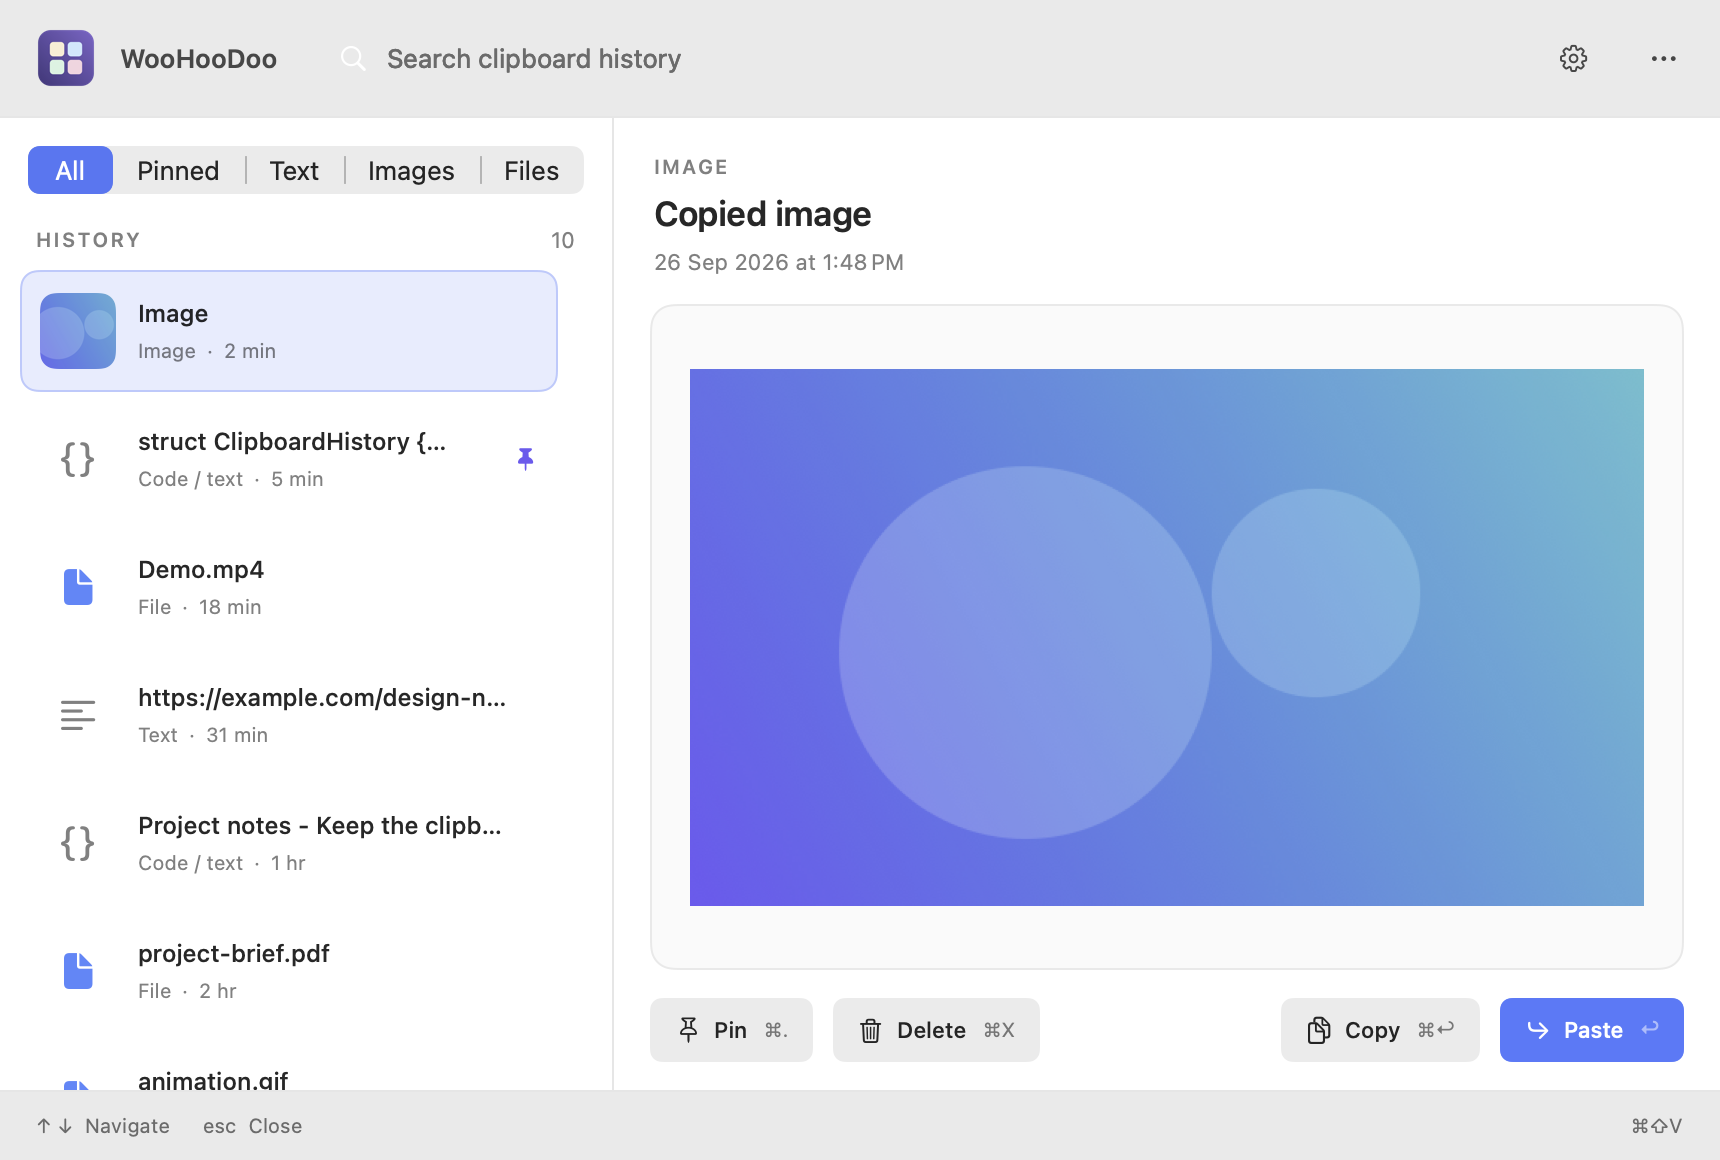
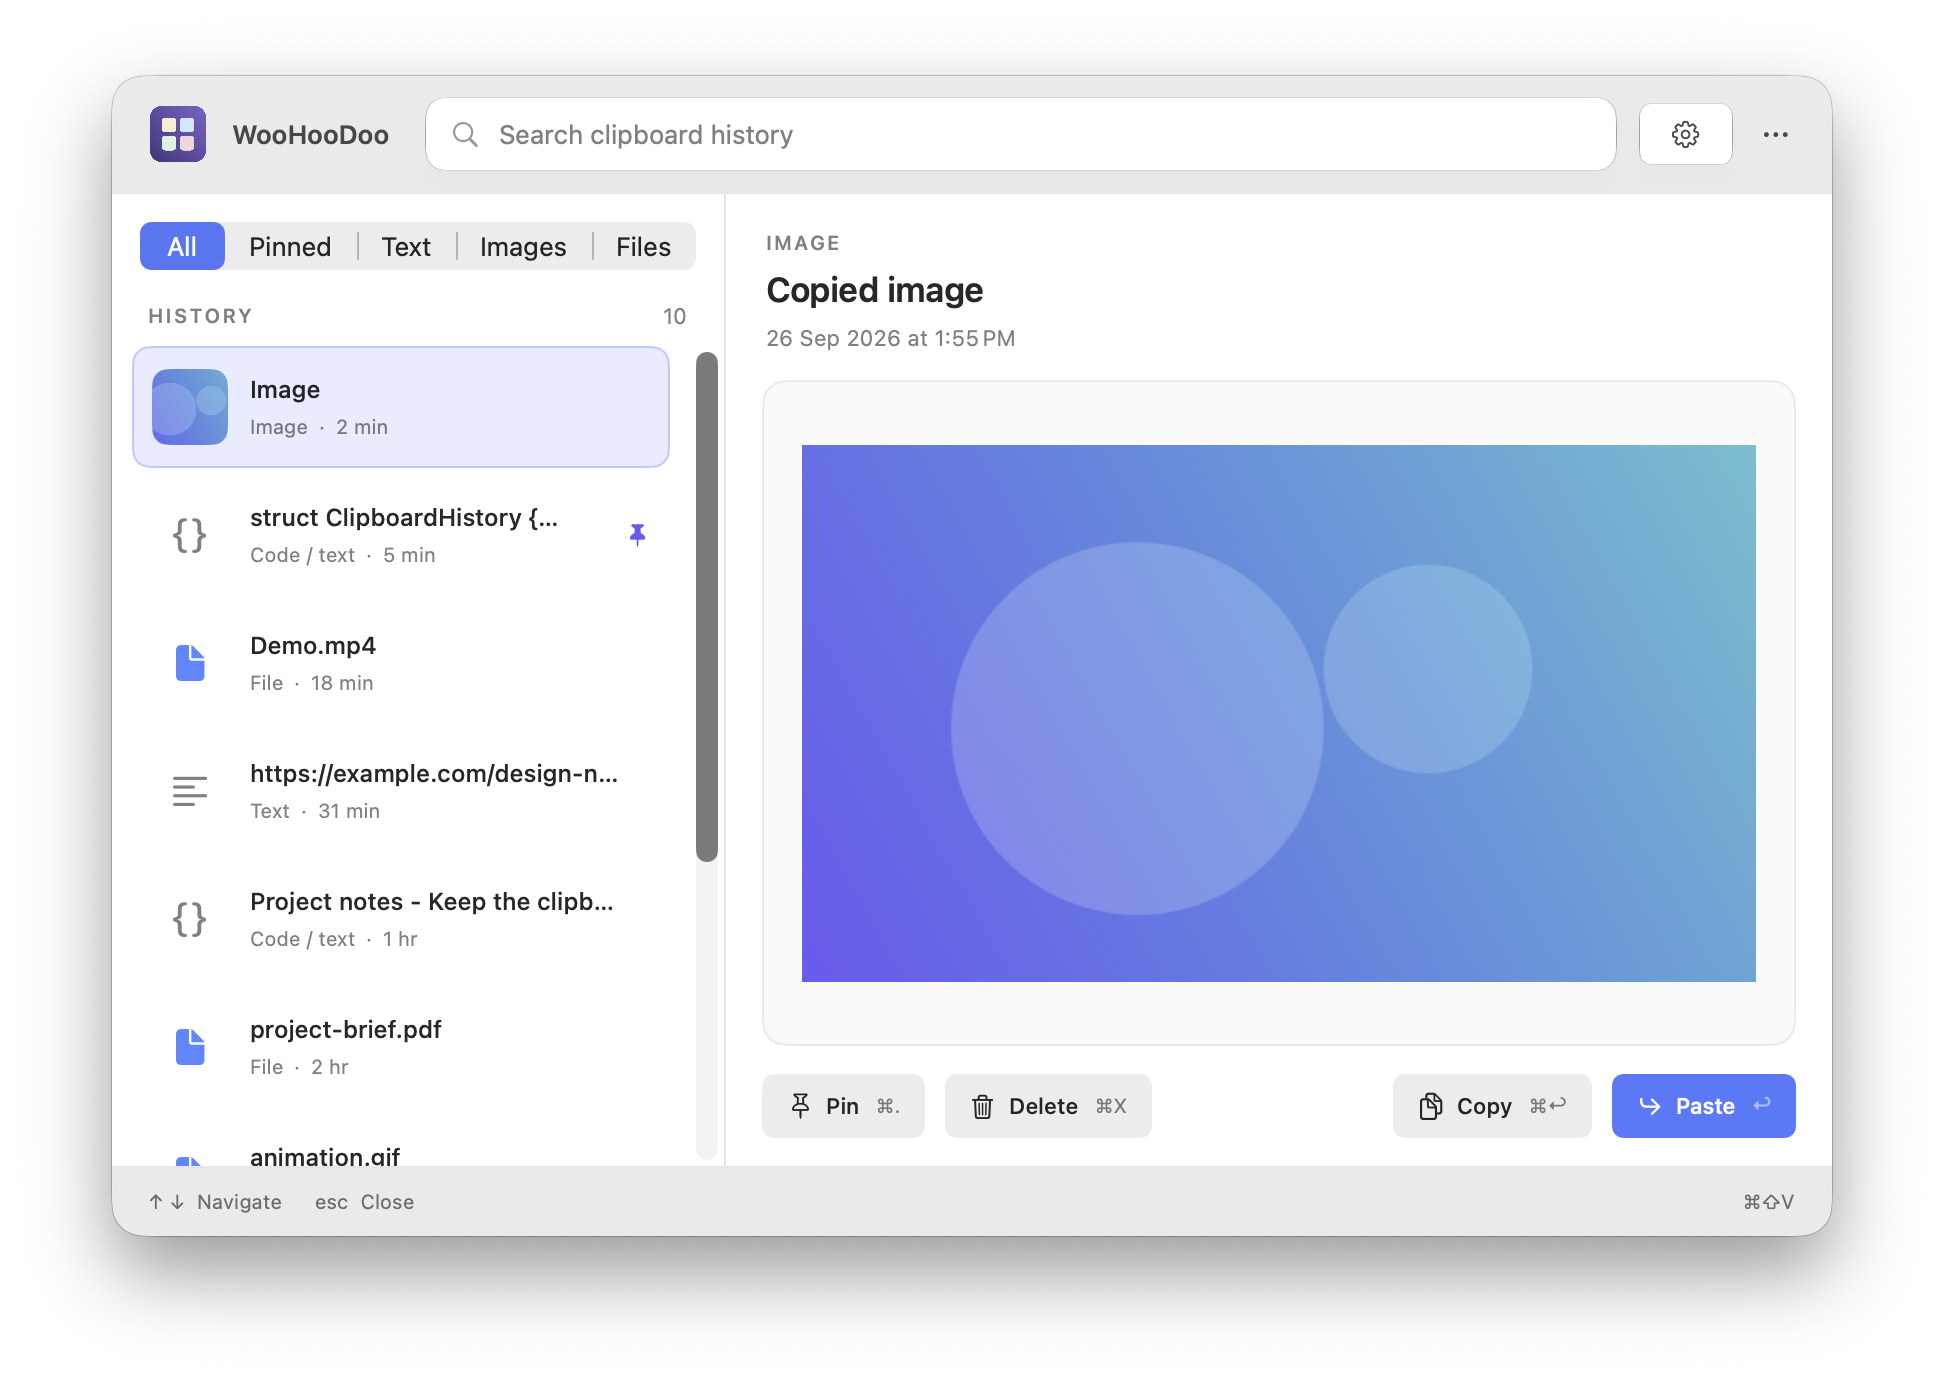
docs: capture screenshots from macOS windows

diff --git a/scripts/render-layout.swift b/scripts/render-layout.swift
@@ -1,4 +1,5 @@
 import AppKit
+import Darwin
 import SwiftUI
 
 @main
@@ -10,6 +11,8 @@ struct LayoutCheck {
         try FileManager.default.createDirectory(at: directory, withIntermediateDirectories: true)
         defer { try? FileManager.default.removeItem(at: directory) }
 
+        let scenario = CommandLine.arguments.dropFirst().first ?? "light"
+        precondition(["light", "dark", "settings"].contains(scenario))
         let previewFile = ProcessInfo.processInfo.environment["WOOHOODOO_LAYOUT_FILE"]
         let imageName = try makeSampleImage(in: directory)
         let code = """
@@ -59,18 +62,22 @@ struct LayoutCheck {
         let pasteboard = NSPasteboard(name: NSPasteboard.Name("WooHooDooLayout-\(UUID())"))
         let store = ClipboardStore(pasteboard: pasteboard, directory: directory, startsPolling: false)
         let controller = AppController(store: store)
-        controller.selectedIndex = previewFile == nil ? 0 : 2
+        controller.selectedIndex = previewFile == nil ? (scenario == "dark" ? 1 : 0) : 2
+        controller.showSettings = scenario == "settings"
         let app = NSApplication.shared
         app.applicationIconImage = NSImage(contentsOfFile: "dist/WooHooDoo.app/Contents/Resources/AppIcon.icns")
         app.setActivationPolicy(.regular)
         let window = NSPanel(contentRect: NSRect(origin: .zero, size: AppController.panelSize),
                              styleMask: [.titled, .fullSizeContentView], backing: .buffered, defer: false)
-        window.appearance = NSAppearance(named: .aqua)
+        window.appearance = NSAppearance(named: scenario == "dark" ? .darkAqua : .aqua)
         window.titleVisibility = .hidden
         window.titlebarAppearsTransparent = true
         window.standardWindowButton(.closeButton)?.isHidden = true
         window.standardWindowButton(.miniaturizeButton)?.isHidden = true
         window.standardWindowButton(.zoomButton)?.isHidden = true
+        window.isFloatingPanel = true
+        window.level = .floating
+        window.hasShadow = true
         window.contentView = NSHostingView(rootView: HistoryView(controller: controller))
         window.minSize = AppController.panelSize
         window.maxSize = AppController.panelSize
@@ -79,33 +86,17 @@ struct LayoutCheck {
         window.makeKeyAndOrderFront(nil)
         app.activate(ignoringOtherApps: true)
 
-        let prefix = CommandLine.arguments[1]
-        DispatchQueue.main.asyncAfter(deadline: .now() + 1) {
-            save(window: window, path: prefix + "-history.png")
-            controller.showSettings = true
-            DispatchQueue.main.asyncAfter(deadline: .now() + 0.5) {
-                save(window: window, path: prefix + "-settings.png")
-                controller.showSettings = false
-                if previewFile == nil { controller.selectedIndex = 1 }
-                window.appearance = NSAppearance(named: .darkAqua)
-                DispatchQueue.main.asyncAfter(deadline: .now() + 0.5) {
-                    save(window: window, path: prefix + "-dark.png")
-                    app.terminate(nil)
-                }
-            }
+        DispatchQueue.main.asyncAfter(deadline: .now() + 0.75) {
+            precondition(abs(window.frame.width - AppController.panelSize.width) < 1 &&
+                         abs(window.frame.height - AppController.panelSize.height) < 1,
+                         "Panel changed size while rendering \(scenario): \(window.frame)")
+            FileHandle.standardOutput.write(Data("Sample window ID: \(window.windowNumber)\n".utf8))
         }
-        withExtendedLifetime((controller, window)) { app.run() }
-    }
-
-    private static func save(window: NSWindow, path: String) {
-        precondition(abs(window.frame.width - AppController.panelSize.width) < 1 &&
-                     abs(window.frame.height - AppController.panelSize.height) < 1,
-                     "Panel changed size while rendering \(path): \(window.frame)")
-        guard let view = window.contentView,
-              let bitmap = view.bitmapImageRepForCachingDisplay(in: view.bounds) else { return }
-        view.cacheDisplay(in: view.bounds, to: bitmap)
-        guard let data = bitmap.representation(using: .png, properties: [:]) else { return }
-        try? data.write(to: URL(fileURLWithPath: path))
+        signal(SIGTERM, SIG_IGN)
+        let terminate = DispatchSource.makeSignalSource(signal: SIGTERM, queue: .main)
+        terminate.setEventHandler { app.terminate(nil) }
+        terminate.resume()
+        withExtendedLifetime((controller, window, terminate)) { app.run() }
     }
 
     private static func makeSampleImage(in directory: URL) throws -> String {

diff --git a/docs/ARCHITECTURE.md b/docs/ARCHITECTURE.md
@@ -22,6 +22,6 @@ This JSON model keeps the entire history in memory. It fits the default 200-item
 
 ## Build and checks
 
-`Package.swift` is the Swift package entry point. `scripts/build-app.sh` compiles the release executable, creates the app bundle and icon, then signs it locally. `scripts/install-app.sh` replaces the bundle in `~/Applications` and opens it. `scripts/check.sh` compiles `ClipboardStore` with isolated checks covering retention, pins, file references, and concealed content. `scripts/check-layout.sh` renders history, settings, and dark appearance with sample data for visual review. The public images in `docs/screenshots/` come from this renderer.
+`Package.swift` is the Swift package entry point. `scripts/build-app.sh` compiles the release executable, creates the app bundle and icon, then signs it locally. `scripts/install-app.sh` replaces the bundle in `~/Applications` and opens it. `scripts/check.sh` compiles `ClipboardStore` with isolated checks covering retention, pins, file references, and concealed content. `scripts/check-layout.sh` opens isolated sample windows for history, settings, and dark appearance and captures each window through macOS `screencapture`. The public images in `docs/screenshots/` come from this workflow.
 
 The app does not yet save rich text representations or offer per-app capture exclusions. Quick Look support depends on macOS and the original file remaining available.

diff --git a/README.md b/README.md
@@ -48,7 +48,7 @@ Open the gear button to change retention and capture settings. To start the app 
 
 ## Screenshots
 
-These images are rendered by the app's layout script with sample clips. They contain no personal clipboard data.
+These are macOS window captures of the app with sample clips. They contain no personal clipboard data.
 
 | Dark appearance | Settings |
 | --- | --- |
@@ -72,7 +72,7 @@ Turn off **Launch WooHooDoo at login** in settings, quit the app from its `...` 
 | `./scripts/check.sh` | Run clipboard storage checks |
 | `./scripts/check-layout.sh` | Render sample screens to `.build/layout-*.png` |
 
-Read [architecture](docs/ARCHITECTURE.md) for the app's data flow and storage, and [contributing](CONTRIBUTING.md) before sending a change. The screenshots above come from `./scripts/check-layout.sh` and show the app's 860 x 580 point panel at Retina resolution. On macOS 26 and later, header controls use Liquid Glass; earlier systems use standard controls.
+Read [architecture](docs/ARCHITECTURE.md) for the app's data flow and storage, and [contributing](CONTRIBUTING.md) before sending a change. The screenshots above come from `./scripts/check-layout.sh`, which captures a real 860 x 580 point sample window with its corners and shadow. On macOS 26 and later, header controls use Liquid Glass; earlier systems use standard controls.
 
 ## License
 

diff --git a/CONTRIBUTING.md b/CONTRIBUTING.md
@@ -11,6 +11,6 @@ For UI changes, build the app first so the renderer can load its icon, then rend
 ./scripts/check-layout.sh
 ```
 
-When the public interface changes, copy `.build/layout-history.png`, `.build/layout-dark.png`, and `.build/layout-settings.png` to the matching files in `docs/screenshots/`.
+The layout script captures the sample window through macOS `screencapture`. macOS may require Screen Recording access for the terminal running it. When the public interface changes, copy `.build/layout-history.png`, `.build/layout-dark.png`, and `.build/layout-settings.png` to the matching files in `docs/screenshots/`.
 
 Use sample clips in screenshots and bug reports. Clipboard history can contain private text, images, and file paths.
